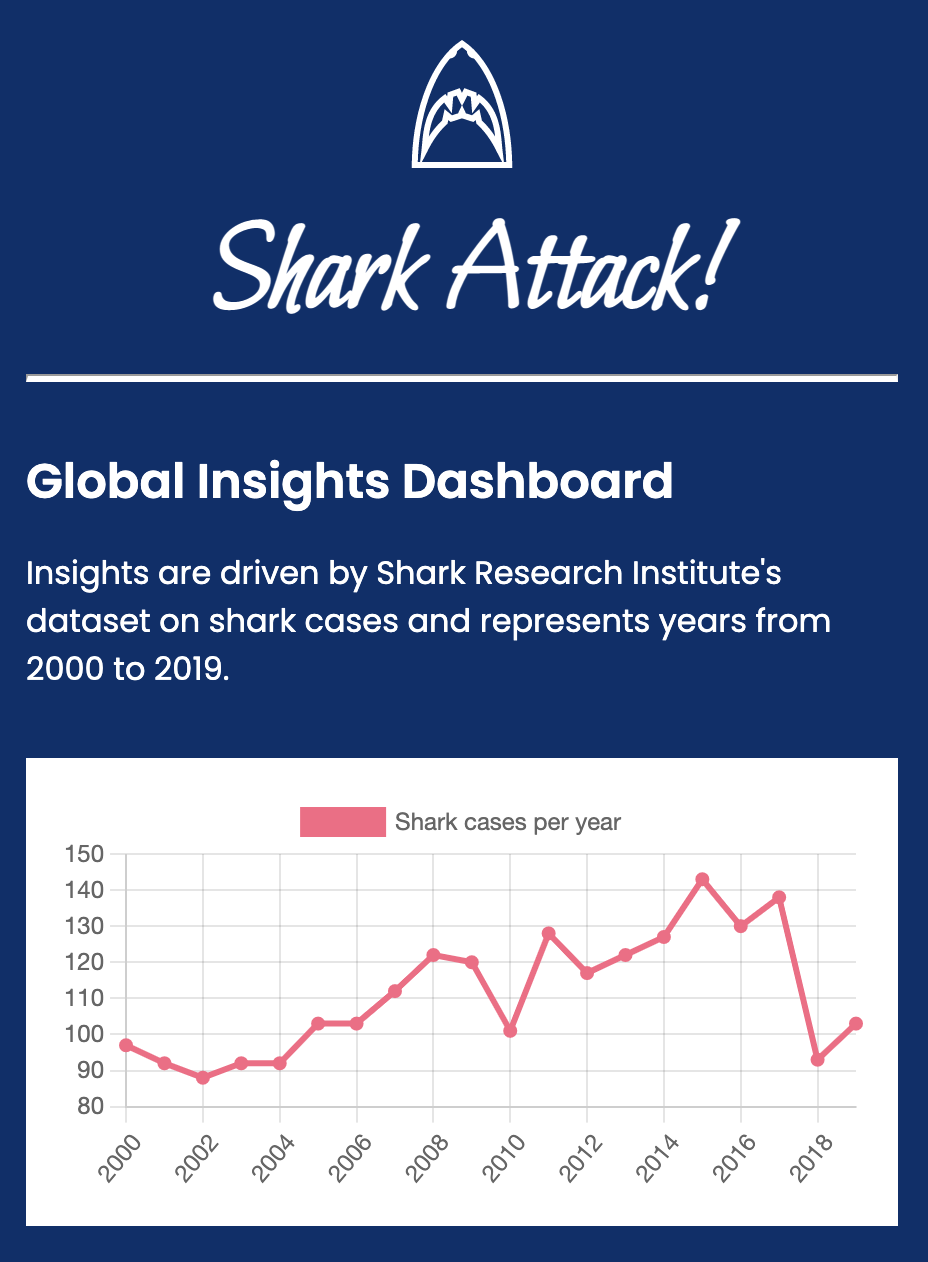
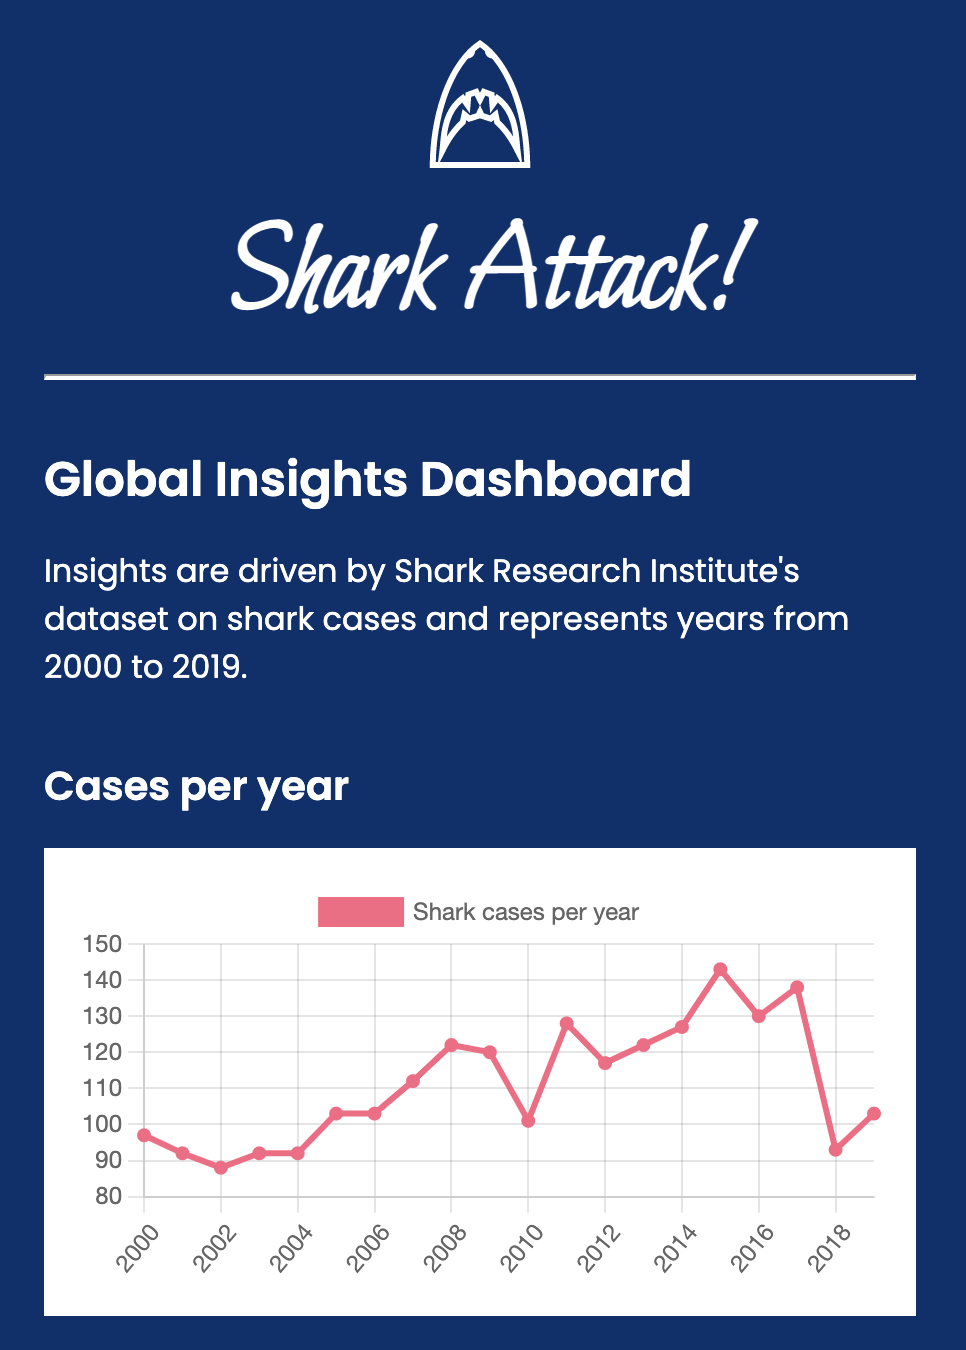
added titles to each chart and updated image on index page

Changed region(s): [[0.0, 0.3399, 0.9688, 0.9889], [0.2188, 0.0309, 0.8125, 0.2472], [0.0312, 0.2781, 0.9688, 0.309]]

diff --git a/projects/shark-attack/index.html b/projects/shark-attack/index.html
@@ -24,6 +24,7 @@
         <p>Insights are driven by Shark Research Institute's dataset on shark cases and represents years from 2000 to 2019.</p>
     </header>
     <main>
+        <h3>Cases per year</h3>
         <section class="section-container">
             <article class="chart-container">
                 <div class="chart-item">
@@ -35,6 +36,7 @@
                 <li class="list-item">Sharp decrease in cases during 2018 and 2019</li>
             </ul>
         </section>
+        <h3>Cases by country</h3>
         <section class="section-container">
             <article class="chart-container">
                 <div class="chart-item">
@@ -45,6 +47,7 @@
                 <li class="list-item">49% of total cases are from the USA followed by 19% from Australia</li>
             </ul>
         </section>
+        <h3>Cases by area in the USA</h3>
         <section class="section-container">
             <article class="chart-container">
                 <div class="chart-item">
@@ -56,6 +59,7 @@
                 <li class="list-item">This is followed by Hawaii at 13% and California at 11%</li>
             </ul>
         </section>
+        <h3>Cases by age</h3>
         <section class="section-container">
             <article class="chart-container">
                 <div class="chart-item">

diff --git a/projects/shark-attack/styles.css b/projects/shark-attack/styles.css
@@ -33,7 +33,7 @@
     left: 30%;
   }
   100% {
-    left: 100%;
+    left: 85%;
   }
 }
 /* list item */
@@ -47,7 +47,7 @@
 }
 
 /* typography */
-h1, h2, p, a, li {
+h1, h2, h3, p, a, li {
   margin: 0;
 }
 
@@ -61,6 +61,13 @@ h2 {
   font-size: 0.75rem;
   font-weight: 600;
   line-height: 1.125rem;
+  margin-bottom: 16px;
+}
+
+h3 {
+  font-size: 0.625rem;
+  font-weight: 600;
+  line-height: 0.9375rem;
   margin-bottom: 16px;
 }
 

diff --git a/projects/shark-attack/styles/atoms/_typo.scss b/projects/shark-attack/styles/atoms/_typo.scss
@@ -1,7 +1,7 @@
 @use "../abstracts/index" as *;
 
 /* typography */
-h1, h2, p, a, li {
+h1, h2, h3, p, a, li {
   margin: 0;
 }
 
@@ -15,6 +15,13 @@ h2 {
   font-size: 0.75rem;
   font-weight: 600;
   line-height: 1.125rem;
+  margin-bottom: 16px;
+}
+
+h3 {
+  font-size: 0.625rem;
+  font-weight: 600;
+  line-height: 0.9375rem;
   margin-bottom: 16px;
 }
 

diff --git a/projects/shark-attack/styles/atoms/_icon.scss b/projects/shark-attack/styles/atoms/_icon.scss
@@ -13,6 +13,6 @@
     left: 30%;
   }
   100% {
-    left: 100%;
+    left: 85%;
   }
 }
